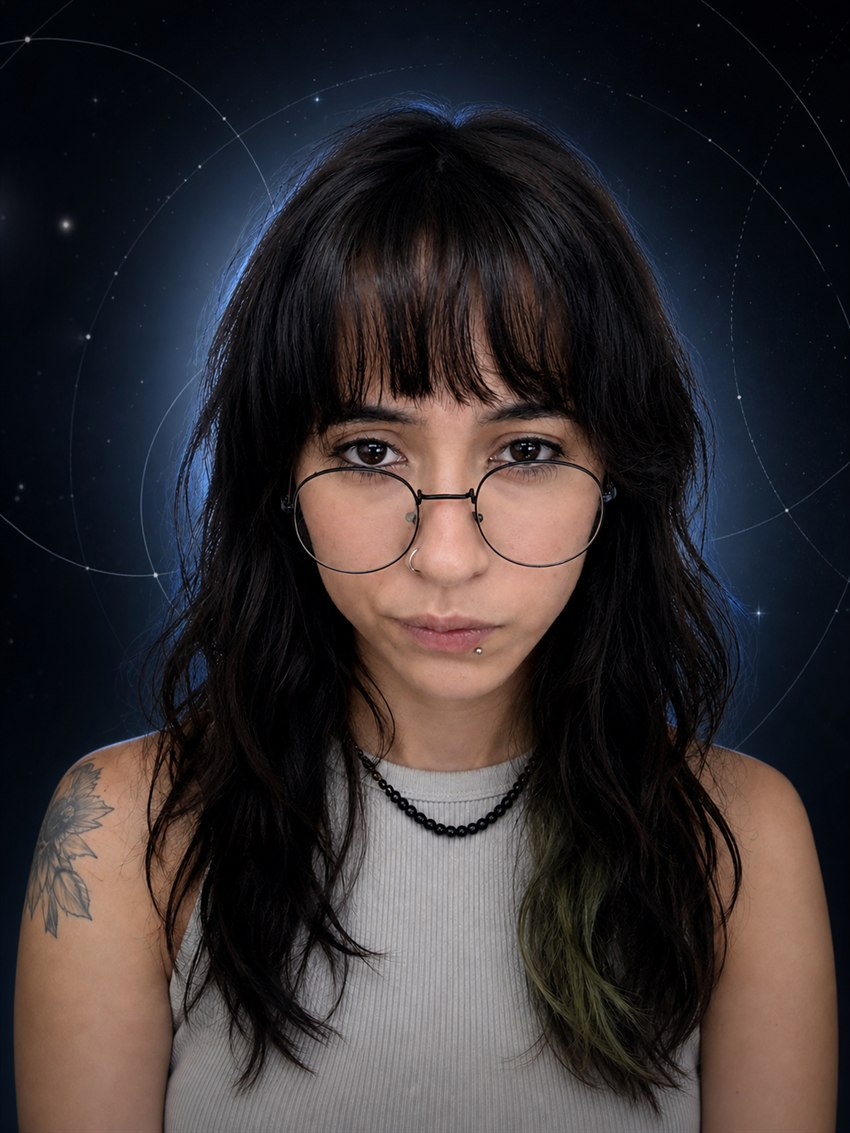
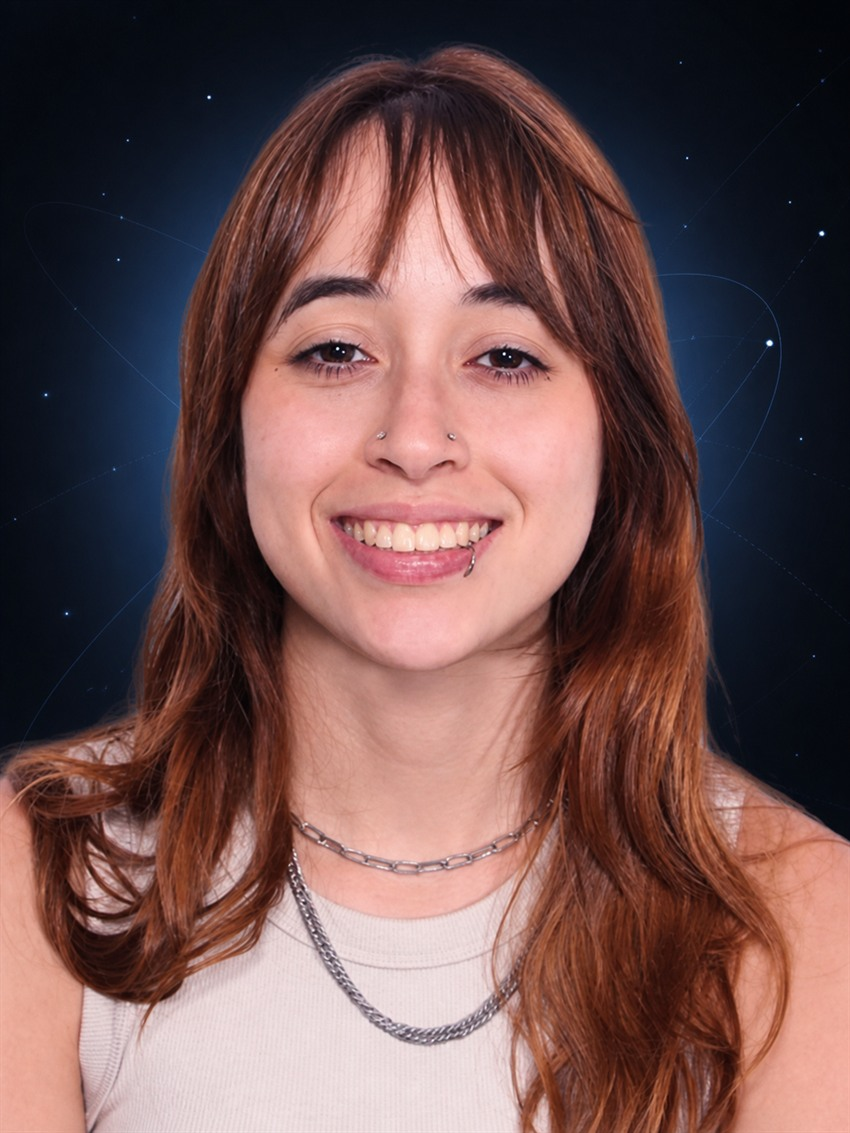
Replace portrait and refine its framing

diff --git a/index.html b/index.html
@@ -9,10 +9,10 @@
   <meta property="og:description" content="Dados, Business Intelligence, automação e IA aplicados a decisões melhores.">
   <meta property="og:type" content="website">
   <meta property="og:url" content="https://eduarda-reis-data-ai.eduardareis1616.chatgpt.site/">
-  <meta property="og:image" content="https://eduarda-reis-data-ai.eduardareis1616.chatgpt.site/eduarda-reis-noite-lunar.jpg">
+  <meta property="og:image" content="https://eduarda-reis-data-ai.eduardareis1616.chatgpt.site/eduarda-reis-noite-lunar.jpg?v=2">
   <meta property="og:image:alt" content="Retrato profissional de Eduarda Reis em uma composição azul inspirada na noite lunar.">
   <meta name="twitter:card" content="summary_large_image">
-  <link rel="preload" as="image" href="./public/eduarda-reis-noite-lunar.jpg" fetchpriority="high">
+  <link rel="preload" as="image" href="./public/eduarda-reis-noite-lunar.jpg?v=2" fetchpriority="high">
   <title>Eduarda Reis — Data & AI</title>
   <style>
     :root{
@@ -52,7 +52,7 @@
     .actions{display:flex;flex-wrap:wrap;gap:.7rem;margin-top:2rem}.btn{display:inline-flex;align-items:center;justify-content:center;gap:.55rem;min-height:45px;padding:.72rem 1.1rem;border:1px solid transparent;border-radius:99px;font-size:.86rem;font-weight:800;text-decoration:none;transition:transform .18s var(--ease),background .18s,border-color .18s,box-shadow .18s}.btn:hover{transform:translateY(-2px)}.btn:active{transform:scale(.98)}.btn-primary{background:var(--accent);color:var(--accent-ink);box-shadow:0 12px 28px rgba(var(--accent-rgb),.22)}.btn-secondary{border-color:var(--line);background:var(--surface);color:var(--ink)}.btn-secondary:hover{border-color:var(--accent);background:rgba(var(--accent-rgb),.09)}.btn-quiet{padding-inline:.3rem;background:transparent;color:var(--accent)}.arrow{transition:transform .2s}.btn:hover .arrow,.project-link:hover .arrow{transform:translateX(4px)}
     .social-row{display:flex;flex-wrap:wrap;gap:1.1rem;margin-top:1.35rem}.social-row a{color:var(--muted);font:700 .72rem var(--mono);text-decoration:none}.social-row a:hover{color:var(--accent)}
     .hero-visual{position:relative;min-height:560px;padding:1.35rem 0 1rem 1.8rem}.visual-card{border:1px solid var(--line);border-radius:var(--radius);background:color-mix(in srgb,var(--surface) 92%,transparent);box-shadow:var(--shadow);backdrop-filter:blur(14px)}
-    .main-card{position:relative;display:grid;height:100%;min-height:535px;grid-template-rows:minmax(330px,1fr) auto;padding:0;overflow:hidden;isolation:isolate;background:#090e1a}.portrait-media{position:relative;min-height:330px;overflow:hidden;background:#090e1a}.portrait-media:after{position:absolute;inset:auto 0 0;height:32%;content:"";background:linear-gradient(transparent,rgba(7,12,24,.58));pointer-events:none}.portrait{position:absolute;inset:0;width:100%;height:100%;object-fit:cover;object-position:center 25%;filter:saturate(.94) contrast(1.02);transition:transform .8s var(--ease),filter .35s}.main-card:hover .portrait{transform:scale(1.02);filter:saturate(1) contrast(1.04)}.status{position:absolute;top:1rem;left:1rem;z-index:2;display:flex;align-items:center;gap:.5rem;max-width:calc(100% - 2rem);padding:.52rem .7rem;border:1px solid rgba(220,232,255,.2);border-radius:99px;background:rgba(5,9,18,.7);color:var(--accent-2);font:750 .62rem var(--mono);letter-spacing:.08em;text-transform:uppercase;backdrop-filter:blur(12px)}.status i{flex:0 0 auto;width:7px;height:7px;border-radius:50%;background:var(--accent);box-shadow:0 0 0 5px rgba(var(--accent-rgb),.12)}.profile-panel{position:relative;z-index:2;padding:1.25rem 1.35rem 1.35rem;border-top:1px solid var(--line);background:linear-gradient(145deg,rgba(var(--accent-rgb),.08),rgba(9,14,26,.98) 42%)}.profile-kicker{display:block;margin-bottom:.48rem;color:var(--accent);font:800 .61rem var(--mono);letter-spacing:.11em;text-transform:uppercase}.main-card h2{max-width:360px;margin:0;font-size:clamp(1.55rem,2.3vw,2.15rem);line-height:1;letter-spacing:-.055em}.main-card p{margin:.65rem 0 0;color:#b9c5da;font-size:.76rem;line-height:1.45}.profile-dot{padding-inline:.35rem;color:var(--accent)}
+    .main-card{position:relative;display:grid;height:100%;min-height:535px;grid-template-rows:minmax(330px,1fr) auto;padding:0;overflow:hidden;isolation:isolate;background:#090e1a}.portrait-media{position:relative;min-height:330px;overflow:hidden;background:radial-gradient(circle at 50% 45%,rgba(var(--accent-rgb),.14),transparent 58%),#090e1a}.portrait-media:after{position:absolute;inset:auto 0 0;height:32%;content:"";background:linear-gradient(transparent,rgba(7,12,24,.58));pointer-events:none}.portrait{position:absolute;inset:0;width:100%;height:100%;object-fit:contain;object-position:center;transform:scale(1.08);filter:saturate(.94) contrast(1.02);transition:transform .8s var(--ease),filter .35s}.main-card:hover .portrait{transform:scale(1.1);filter:saturate(1) contrast(1.04)}.status{position:absolute;top:1rem;left:1rem;z-index:2;display:flex;align-items:center;gap:.5rem;max-width:calc(100% - 2rem);padding:.52rem .7rem;border:1px solid rgba(220,232,255,.2);border-radius:99px;background:rgba(5,9,18,.7);color:var(--accent-2);font:750 .62rem var(--mono);letter-spacing:.08em;text-transform:uppercase;backdrop-filter:blur(12px)}.status i{flex:0 0 auto;width:7px;height:7px;border-radius:50%;background:var(--accent);box-shadow:0 0 0 5px rgba(var(--accent-rgb),.12)}.profile-panel{position:relative;z-index:2;padding:1.25rem 1.35rem 1.35rem;border-top:1px solid var(--line);background:linear-gradient(145deg,rgba(var(--accent-rgb),.08),rgba(9,14,26,.98) 42%)}.profile-kicker{display:block;margin-bottom:.48rem;color:var(--accent);font:800 .61rem var(--mono);letter-spacing:.11em;text-transform:uppercase}.main-card h2{max-width:360px;margin:0;font-size:clamp(1.55rem,2.3vw,2.15rem);line-height:1;letter-spacing:-.055em}.main-card p{margin:.65rem 0 0;color:#b9c5da;font-size:.76rem;line-height:1.45}.profile-dot{padding-inline:.35rem;color:var(--accent)}
     .float-card{position:absolute;top:0;right:-3%;z-index:3;padding:.85rem 1rem;transform:rotate(3deg)}.float-card b{display:block;color:var(--accent);font:850 1.25rem var(--mono);line-height:1}.float-card span{color:var(--muted);font-size:.68rem}
     .metrics{border-top:1px solid var(--line);border-bottom:1px solid var(--line);background:var(--bg-2)}.metric-grid{display:grid;grid-template-columns:repeat(4,1fr)}.metric{display:flex;min-height:135px;flex-direction:column;justify-content:center;padding:1.4rem 1.7rem;border-right:1px solid var(--line)}.metric:last-child{border:0}.metric strong{color:var(--accent);font-size:clamp(1.6rem,3vw,2.45rem);line-height:1;letter-spacing:-.06em}.metric span{max-width:175px;margin-top:.55rem;color:var(--muted);font-size:.76rem}
     .about-grid{display:grid;grid-template-columns:1.05fr .95fr;gap:clamp(2.5rem,7vw,7rem)}.about-copy{margin:0;font-size:clamp(1.25rem,2vw,1.75rem);line-height:1.42;letter-spacing:-.03em}.about-copy strong{color:var(--accent)}
@@ -107,7 +107,7 @@
         <div class="hero-visual reveal" aria-label="Resumo profissional">
           <article class="visual-card main-card" aria-labelledby="profile-title">
             <div class="portrait-media">
-              <img class="portrait" src="./public/eduarda-reis-noite-lunar.jpg" alt="Retrato profissional de Eduarda Reis" width="850" height="1136" fetchpriority="high">
+              <img class="portrait" src="./public/eduarda-reis-noite-lunar.jpg?v=2" alt="Retrato profissional de Eduarda Reis" width="850" height="1136" fetchpriority="high">
               <div class="status"><i></i> Aberta a oportunidades</div>
             </div>
             <div class="profile-panel">
